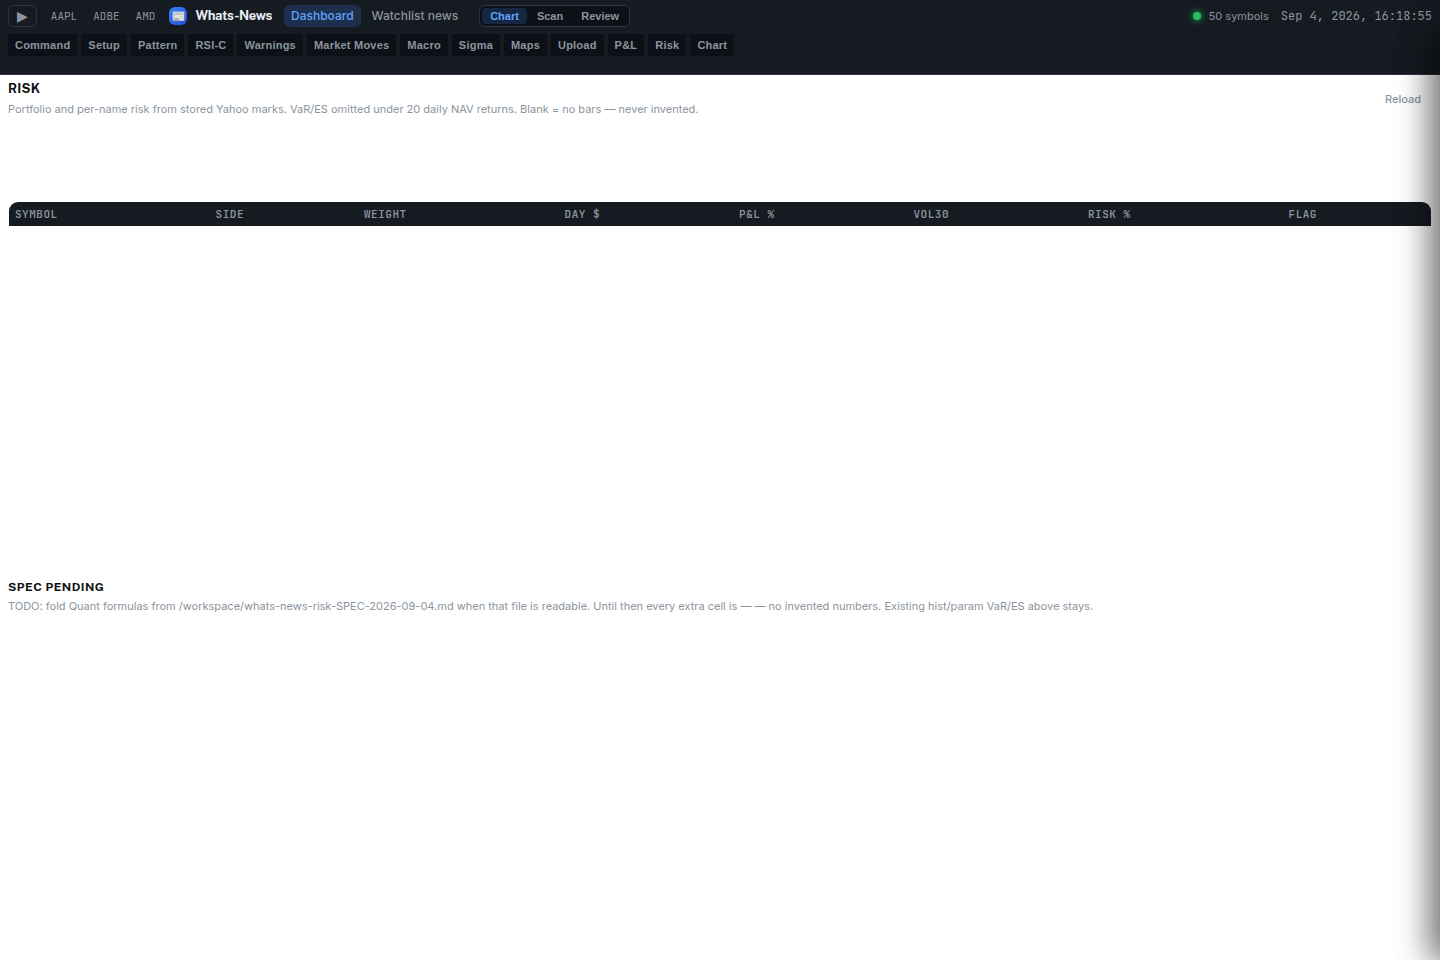
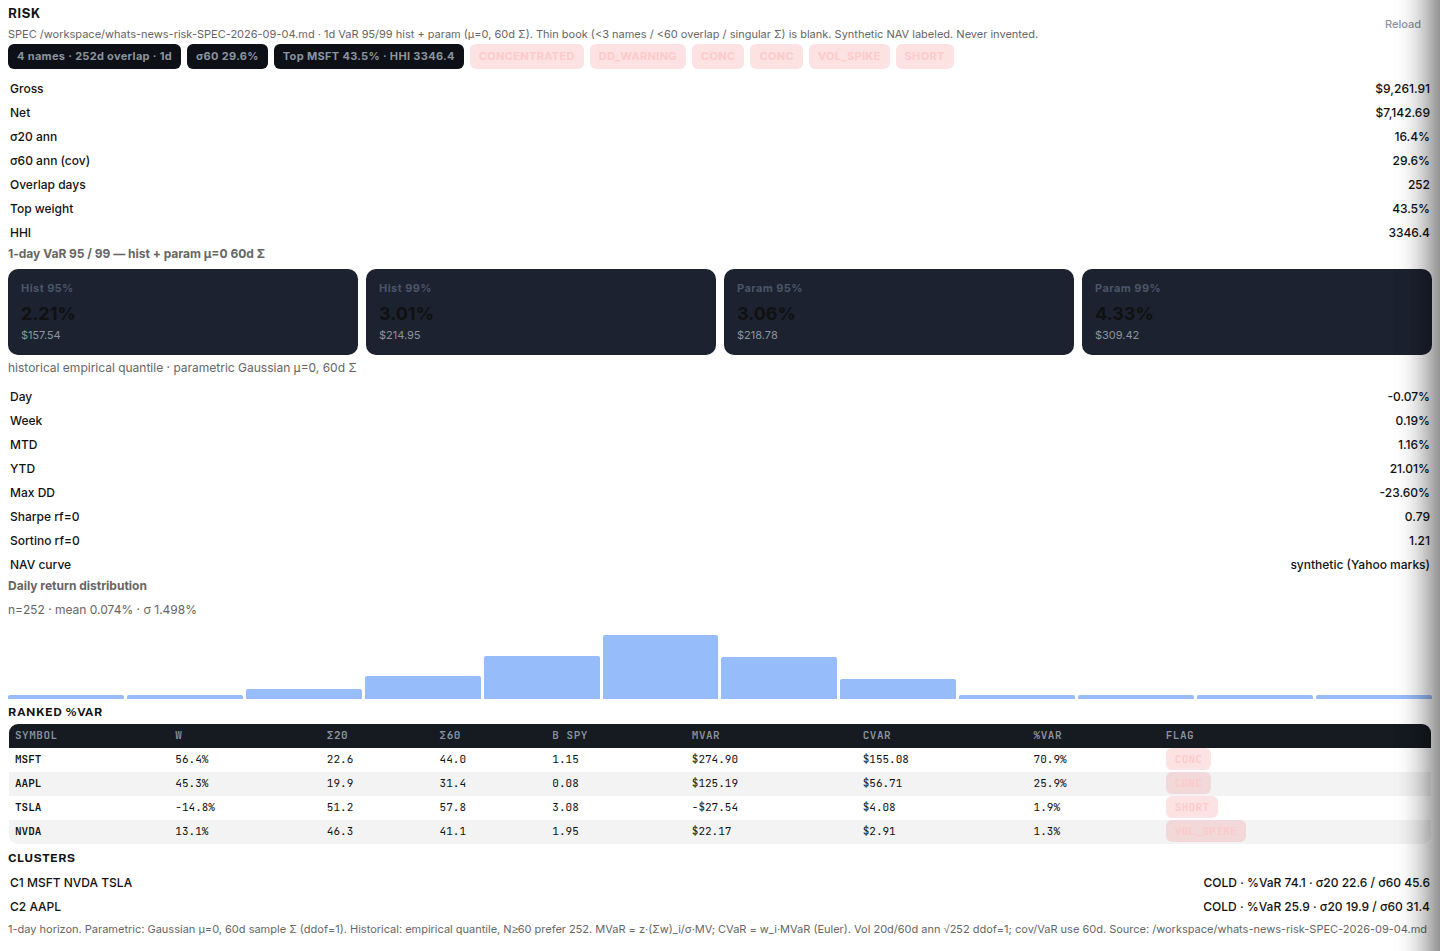
Show live Risk SPEC screenshots; ink-on-paper cluster rows
Portfolio / perf / cluster rows were white on v4.1 paper. Color them
ink at 24px density. Capture the live stack: portfolio, hist+param
VaR, MVaR ranked, HOT/COLD clusters.

Changed region(s): [[0.0, 0.0, 1.0, 1.0], [0.9062, 0.5794, 1.0, 0.6099]]

diff --git a/styles/theme.css b/styles/theme.css
@@ -414,7 +414,7 @@ body.board-focus .desk-ia-bar { padding: 2px 8px; }
 .wn-sym { cursor: pointer; font-weight: 600; }
 .wn-note { color: #666; max-width: 220px; overflow: hidden; text-overflow: ellipsis; white-space: nowrap; }
 
-/* Risk SPEC scaffold — dashes only until Quant file lands */
+/* Risk SPEC 2026-09-04 — ink on paper, 24px Market Moves density */
 .risk-spec { margin-top: 8px; }
 .risk-spec-title {
   font-family: var(--font-face-title);
@@ -422,8 +422,21 @@ body.board-focus .desk-ia-bar { padding: 2px 8px; }
   margin: 4px 0 2px;
   letter-spacing: 0.04em;
   text-transform: uppercase;
+  color: var(--ink);
 }
-.risk-spec .pnl-exp-row { height: 24px; }
+.risk-container .pnl-exp-row {
+  color: var(--ink);
+  font-size: 12px;
+  font-weight: 500;
+  height: var(--mm-row-h);
+  padding: 0 2px;
+  border-bottom: none;
+}
+.risk-container .pnl-var-title,
+.risk-container .macro-blurb,
+.risk-container .pnl-blurb {
+  color: #666;
+}
 
 @media (max-width: 980px) {
   .v2-split, .v2-three { grid-template-columns: 1fr; }

diff --git a/tests/test_warnings.py b/tests/test_warnings.py
@@ -143,6 +143,8 @@ class WarningsSurfaceTests(unittest.TestCase):
         for name in (
             "warnings/warnings_board.png",
             "warnings/risk_scaffold.png",
+            "warnings/risk_live.png",
+            "warnings/risk_ranked_clusters.png",
             "density/scans_dense.png",
         ):
             path = root / name

diff --git a/docs/screenshots/warnings/README.md b/docs/screenshots/warnings/README.md
@@ -2,4 +2,6 @@
 
 - [warnings_board.png](warnings_board.png) — alert surface from Pattern / VCP / RSI-C
 - [scans_dense.png](../density/scans_dense.png) — help wall collapsed; chip row tight
-- [risk_scaffold.png](risk_scaffold.png) — live VaR/ES plus SPEC-pending dashes
+- [risk_live.png](risk_live.png) — SPEC stack: portfolio + 1d hist/param VaR + MVaR ranked + clusters
+- [risk_ranked_clusters.png](risk_ranked_clusters.png) — Ranked %VaR table + HOT/COLD clusters
+- [risk_scaffold.png](risk_scaffold.png) — same live stack (filename kept for the existing test)

diff --git a/docs/screenshots/density/README.md b/docs/screenshots/density/README.md
@@ -7,5 +7,5 @@ Watchlist before/after plus Book Upload | P&L | Risk.
 - [watchlist_after_open.png](watchlist_after_open.png) — dense open rail
 - [book_upload.png](book_upload.png) — Fidelity CSV import only
 - [book_pnl.png](book_pnl.png) — marks / day / exposure
-- [book_risk.png](book_risk.png) — portfolio VaR/ES + per-name weight/vol/contribution
+- [book_risk.png](book_risk.png) — SPEC live: portfolio + hist/param VaR + MVaR ranked + clusters
 - [scans_dense.png](scans_dense.png) — help wall collapsed; chip row tight
